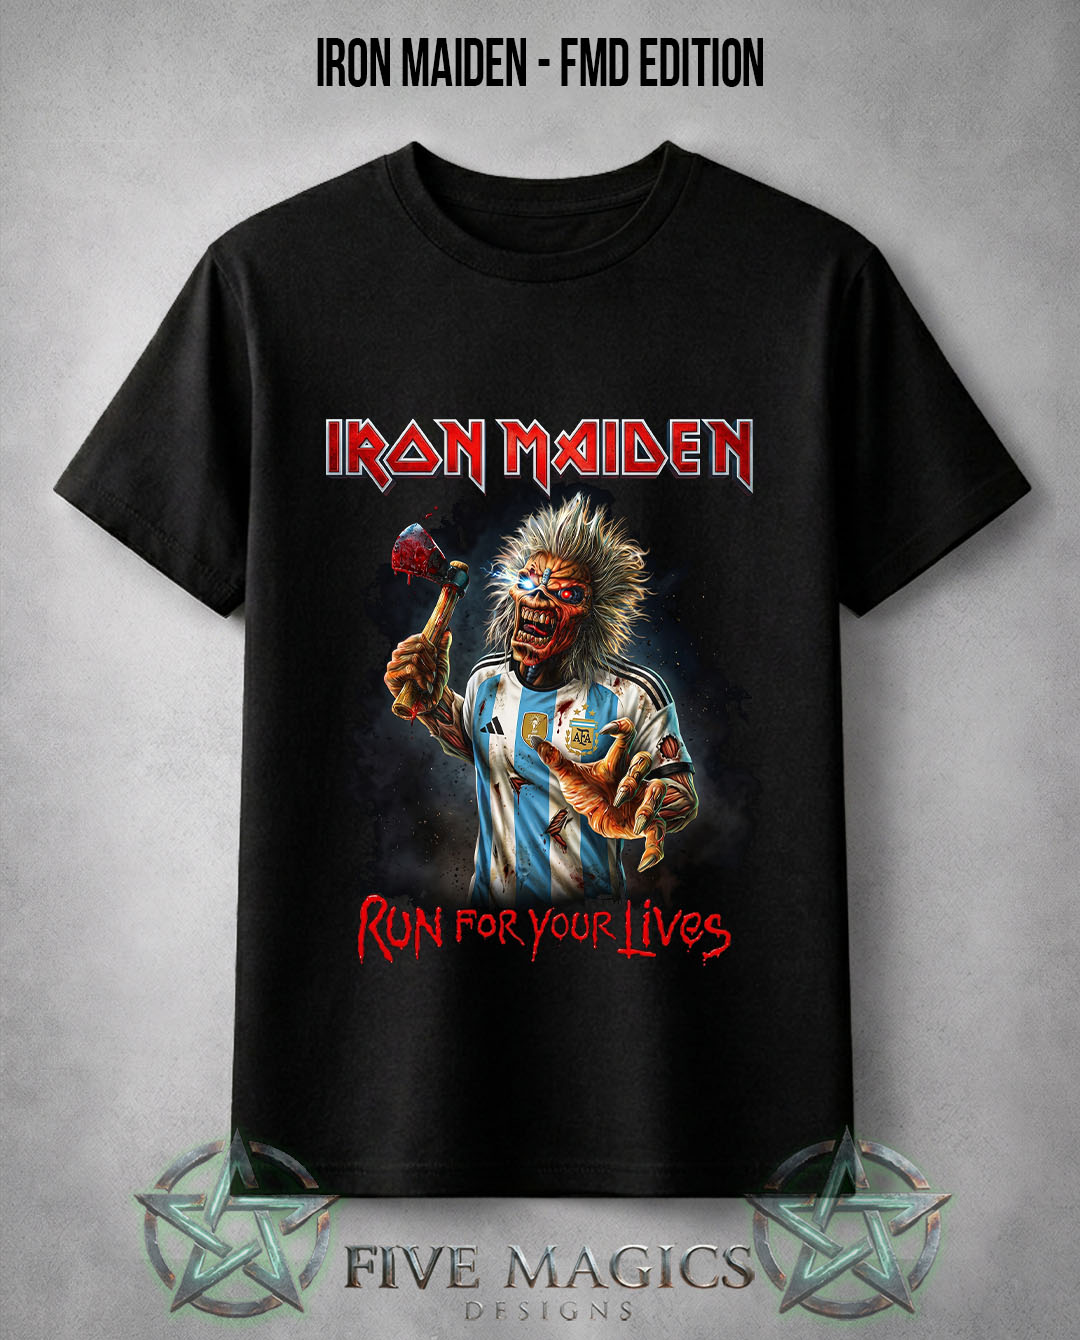
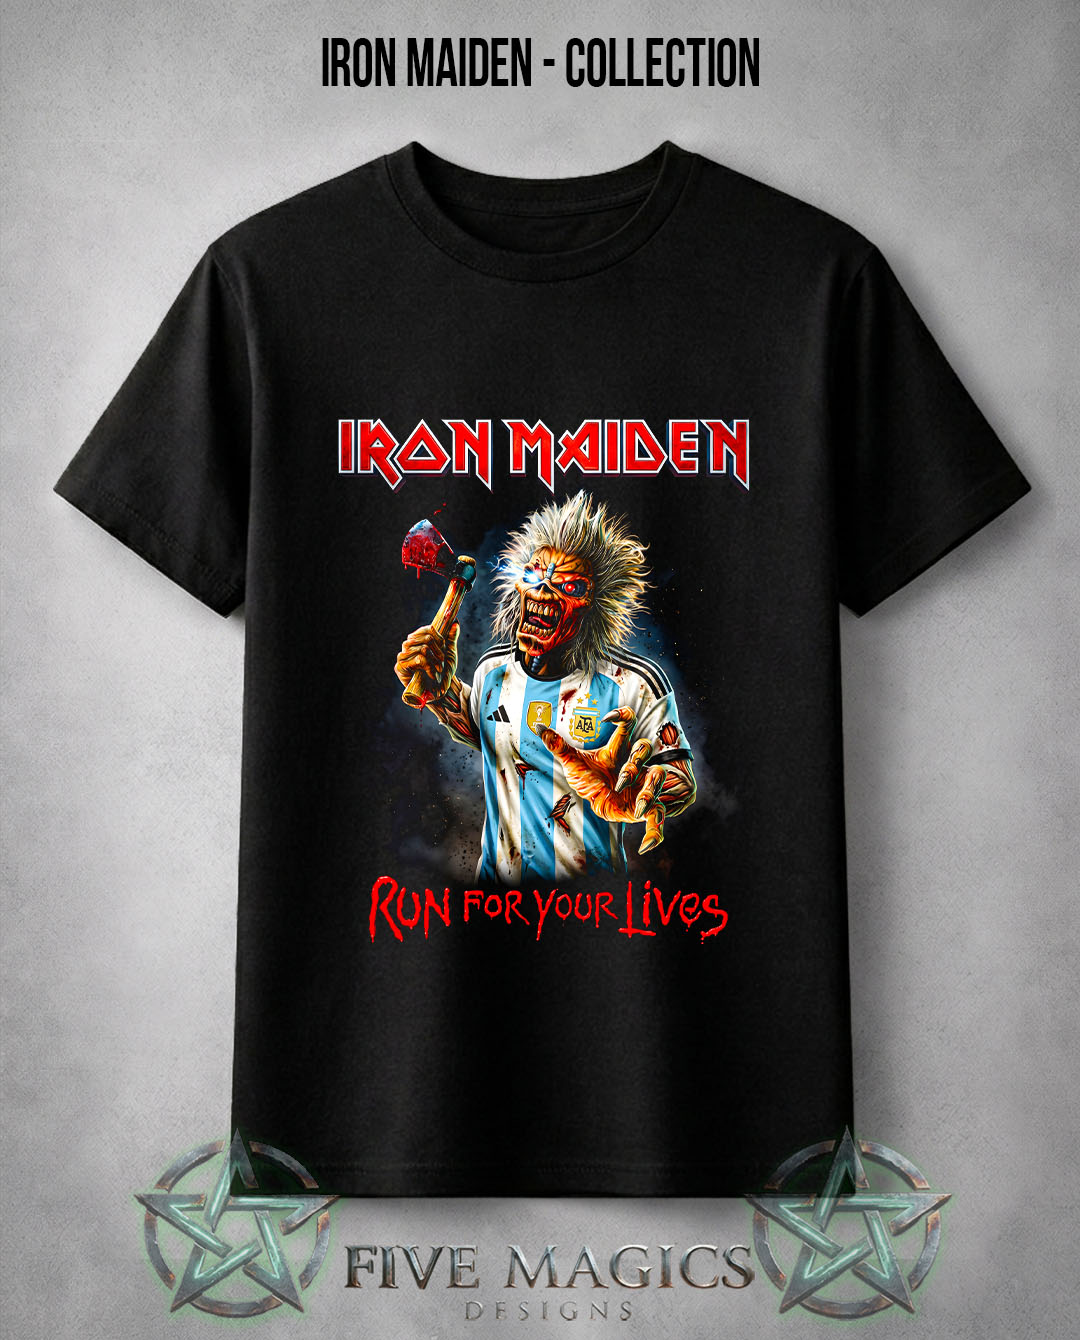
libertador

Changed region(s): [[0.3056, 0.306, 0.7028, 0.7343], [0.275, 0.0306, 0.7333, 0.0612]]

diff --git a/iron-maiden/index.html b/iron-maiden/index.html
@@ -93,37 +93,41 @@
         <section class="band-show-week-notice" aria-label="Entrega para los shows de Iron Maiden">
             <div class="band-show-week-notice-copy">
                 <p>&#128293; &Uacute;LTIMA SEMANA ANTES DE MAIDEN</p>
-                <strong>&iquest;La quer&eacute;s para los shows del 20 o 21 de octubre?</strong>
-                <span><strong>CABA / AMBA:</strong> todav&iacute;a tenemos opciones de entrega para llegar a tiempo.</span>
+                <strong>&iquest;La quer&eacute;s para el show del 20 o 21?</strong>
+                <span><strong>CABA / AMBA:</strong> seguimos tomando pedidos. Consultanos con tu localidad o CP y te indicamos la mejor opci&oacute;n de entrega seg&uacute;n la fecha a la que vayas.</span>
                 <span><strong>Interior:</strong> consultanos antes de pedir si la necesit&aacute;s para el show.</span>
-                <small>Tambi&eacute;n pod&eacute;s coordinar <strong>moto o retiro sin cargo por Villa Martelli</strong>.</small>
+                <small>Tambi&eacute;n pod&eacute;s coordinar <strong>moto o retiro coordinado</strong>.</small>
             </div>
-            <a href="https://wa.me/541169667685?text=Hola%20FMD!%20Quiero%20consultar%20la%20mejor%20opci%C3%B3n%20de%20entrega%20para%20Iron%20Maiden.%20Mi%20localidad%20o%20CP%20es%3A%20" target="_blank" rel="noopener">CONSULTANOS POR WHATSAPP</a>
+            <a href="https://wa.me/541169667685?text=Hola%20FMD!%20Quiero%20consultar%20la%20mejor%20opci%C3%B3n%20de%20entrega%20para%20Iron%20Maiden.%20Voy%20al%20show%20del%3A%20%5B20%20o%2021%5D%0AMi%20localidad%20o%20CP%20es%3A%20" target="_blank" rel="noopener">CONSULTAR ENTREGA PARA EL SHOW</a>
         </section>
 
 
-        <section class="band-campaign-feature band-campaign-feature--argentina" id="bandCampaignFeature" data-design-id="cd-iron-maiden-eddie-gaucho-argentino--p7040" data-design-ids="cd-iron-maiden-eddie-gaucho-argentino--p7040,iron-maiden-eddie-gaucho-tempestad-original-fmd,iron-maiden-eddie-tanguero-original-fmd,iron-maiden-eddie-huracan-original-fmd" aria-labelledby="bandCampaignFeatureTitle">
+        <section class="band-campaign-feature band-campaign-feature--argentina" id="bandCampaignFeature" data-design-id="cd-iron-maiden-eddie-gaucho-argentino--p7040" data-design-ids="cd-iron-maiden-eddie-gaucho-argentino--p7040,iron-maiden-eddie-gaucho-tempestad-original-fmd,iron-maiden-eddie-tanguero-original-fmd,iron-maiden-eddie-huracan-original-fmd,iron-maiden-eddie-libertador-original-fmd" aria-labelledby="bandCampaignFeatureTitle">
             <div class="band-campaign-feature-head">
                 <p>SAGA EDDIES ARGENTINOS · ORIGINALES FMD</p>
-                <h2 id="bandCampaignFeatureTitle">EDDIES ARGENTINOS · CUATRO CAPÍTULOS</h2>
-                <span>Gaucho, Tanguero, Huracán y Tempestad: cuatro versiones originales FMD inspiradas en Argentina.</span>
+                <h2 id="bandCampaignFeatureTitle">EDDIES ARGENTINOS · CINCO CAPÍTULOS</h2>
+                <span>Gaucho, Tempestad, Tanguero, Huracán y Libertador: cinco versiones originales FMD inspiradas en Argentina.</span>
             </div>
             <div class="band-campaign-feature-gallery">
-                <button type="button" class="band-campaign-feature-card is-primary" onclick="openCatalogDesignPreview('cd-iron-maiden-eddie-gaucho-argentino--p7040', 'remera', 'double', '/images/iron_maiden/remera_iron_maiden_eddie_gaucho_argentino_frente.jpg')" aria-label="Ver EDDIE GAUCHO · FRENTE + DORSO: EDDIES ARGENTINOS · CUATRO CAPÍTULOS">
+                <button type="button" class="band-campaign-feature-card is-primary" onclick="openCatalogDesignPreview('cd-iron-maiden-eddie-gaucho-argentino--p7040', 'remera', 'double', '/images/iron_maiden/remera_iron_maiden_eddie_gaucho_argentino_frente.jpg')" aria-label="Ver EDDIE GAUCHO · FRENTE + DORSO: EDDIES ARGENTINOS · CINCO CAPÍTULOS">
                     <img src="/images/iron_maiden/remera_iron_maiden_eddie_gaucho_argentino.jpg" alt="Edición completa Eddie Gaucho Argentino con frente clásico y dorso Buenos Aires 2026" width="1080" height="1350" loading="eager" decoding="async">
                     <strong>EDDIE GAUCHO · FRENTE + DORSO</strong>
                 </button>
-                <button type="button" class="band-campaign-feature-card" onclick="openCatalogDesignPreview('iron-maiden-eddie-gaucho-tempestad-original-fmd', 'remera', 'double', '/images/iron_maiden/iron_maiden_eddie_gaucho_tempestad.jpg')" aria-label="Ver EDDIE GAUCHO TEMPESTAD · FRENTE + DORSO: EDDIES ARGENTINOS · CUATRO CAPÍTULOS">
+                <button type="button" class="band-campaign-feature-card" onclick="openCatalogDesignPreview('iron-maiden-eddie-gaucho-tempestad-original-fmd', 'remera', 'double', '/images/iron_maiden/iron_maiden_eddie_gaucho_tempestad.jpg')" aria-label="Ver EDDIE GAUCHO TEMPESTAD · FRENTE + DORSO: EDDIES ARGENTINOS · CINCO CAPÍTULOS">
                     <img src="/images/iron_maiden/mock frente y dorso eddie gaucho tempestad.jpg" alt="Edición completa Eddie Gaucho Tempestad con frente y dorso" width="1080" height="1350" loading="lazy" decoding="async">
                     <strong>EDDIE GAUCHO TEMPESTAD · FRENTE + DORSO</strong>
                 </button>
-                <button type="button" class="band-campaign-feature-card" onclick="openCatalogDesignPreview('iron-maiden-eddie-tanguero-original-fmd', 'remera', 'double', '/images/iron_maiden/iron_maiden_eddie_tanguero.jpg')" aria-label="Ver EDDIE TANGUERO · FRENTE + DORSO: EDDIES ARGENTINOS · CUATRO CAPÍTULOS">
+                <button type="button" class="band-campaign-feature-card" onclick="openCatalogDesignPreview('iron-maiden-eddie-tanguero-original-fmd', 'remera', 'double', '/images/iron_maiden/iron_maiden_eddie_tanguero.jpg')" aria-label="Ver EDDIE TANGUERO · FRENTE + DORSO: EDDIES ARGENTINOS · CINCO CAPÍTULOS">
                     <img src="/images/iron_maiden/iron_maiden_eddie_tanguero_doble.jpg" alt="Edición completa Eddie Tanguero con frente y dorso Buenos Aires 2026" width="1080" height="1350" loading="lazy" decoding="async">
                     <strong>EDDIE TANGUERO · FRENTE + DORSO</strong>
                 </button>
-                <button type="button" class="band-campaign-feature-card" onclick="openCatalogDesignPreview('iron-maiden-eddie-huracan-original-fmd', 'remera', 'double', '/images/iron_maiden/remera_iron_maiden_eddie_huracan_frente.jpg')" aria-label="Ver EDDIE HURACÁN · FRENTE + DORSO: EDDIES ARGENTINOS · CUATRO CAPÍTULOS">
+                <button type="button" class="band-campaign-feature-card" onclick="openCatalogDesignPreview('iron-maiden-eddie-huracan-original-fmd', 'remera', 'double', '/images/iron_maiden/remera_iron_maiden_eddie_huracan_frente.jpg')" aria-label="Ver EDDIE HURACÁN · FRENTE + DORSO: EDDIES ARGENTINOS · CINCO CAPÍTULOS">
                     <img src="/images/iron_maiden/remera_iron_maiden_eddie_huracan_doble.jpg" alt="Edición completa Eddie vs. Huracán con frente y dorso Buenos Aires 2026" width="1080" height="1350" loading="lazy" decoding="async">
                     <strong>EDDIE HURACÁN · FRENTE + DORSO</strong>
+                </button>
+                <button type="button" class="band-campaign-feature-card" onclick="openCatalogDesignPreview('iron-maiden-eddie-libertador-original-fmd', 'remera', 'double', '/images/iron_maiden/iron_maiden_eddie_soldado.jpg')" aria-label="Ver EDDIE LIBERTADOR · FRENTE + DORSO: EDDIES ARGENTINOS · CINCO CAPÍTULOS">
+                    <img src="/images/iron_maiden/iron_maiden_eddie_soldado_doble.jpg" alt="Edición completa Eddie Libertador con sombrero y bandera argentina" width="1080" height="1350" loading="lazy" decoding="async">
+                    <strong>EDDIE LIBERTADOR · FRENTE + DORSO</strong>
                 </button>
             </div>
             <p class="band-campaign-feature-event">20 + 21 OCTUBRE · ESTADIO HURACÁN</p>
@@ -131,7 +135,7 @@
                 <span class="is-recommended"><b>FRENTE + DORSO</b>$45.000</span>
             </div>
 
-            <p class="band-campaign-feature-note">Elegí tu Eddie. Los cuatro están disponibles con estampa frontal o frente + dorso.</p>
+            <p class="band-campaign-feature-note">Elegí tu Eddie. Los cinco están disponibles con estampa frontal o frente + dorso.</p>
             <button type="button" class="band-campaign-feature-cta" onclick="selectBandLandingCollectionAndScroll('eddies-argentinos')">VER EDDIES ARGENTINOS</button>
         </section>
         <nav class="band-discovery-nav" aria-label="Elegir una colección de Iron Maiden">

diff --git a/js/band-archives-config.js b/js/band-archives-config.js
@@ -324,12 +324,12 @@
             },
             showWeekNotice: {
                 eyebrow: '&#128293; &Uacute;LTIMA SEMANA ANTES DE MAIDEN',
-                question: '&iquest;La quer&eacute;s para los shows del 20 o 21 de octubre?',
-                caba: '<strong>CABA / AMBA:</strong> todav&iacute;a tenemos opciones de entrega para llegar a tiempo.',
+                question: '&iquest;La quer&eacute;s para el show del 20 o 21?',
+                caba: '<strong>CABA / AMBA:</strong> seguimos tomando pedidos. Consultanos con tu localidad o CP y te indicamos la mejor opci&oacute;n de entrega seg&uacute;n la fecha a la que vayas.',
                 interior: '<strong>Interior:</strong> consultanos antes de pedir si la necesit&aacute;s para el show.',
-                extra: 'Tambi&eacute;n pod&eacute;s coordinar <strong>moto o retiro sin cargo por Villa Martelli</strong>.',
-                ctaLabel: 'CONSULTANOS POR WHATSAPP',
-                href: 'https://wa.me/541169667685?text=Hola%20FMD!%20Quiero%20consultar%20la%20mejor%20opci%C3%B3n%20de%20entrega%20para%20Iron%20Maiden.%20Mi%20localidad%20o%20CP%20es%3A%20'
+                extra: 'Tambi&eacute;n pod&eacute;s coordinar <strong>moto o retiro coordinado</strong>.',
+                ctaLabel: 'CONSULTAR ENTREGA PARA EL SHOW',
+                href: 'https://wa.me/541169667685?text=Hola%20FMD!%20Quiero%20consultar%20la%20mejor%20opci%C3%B3n%20de%20entrega%20para%20Iron%20Maiden.%20Voy%20al%20show%20del%3A%20%5B20%20o%2021%5D%0AMi%20localidad%20o%20CP%20es%3A%20'
             },
             modalShowNotice: '&iquest;La necesit&aacute;s para el show?<br>Consultanos tu localidad o CP antes de comprar y te indicamos la mejor opci&oacute;n de entrega.',
             showSizeGuide: true,
@@ -449,10 +449,10 @@
             campaignFeature: {
                 theme: 'argentina',
                 kicker: 'SAGA EDDIES ARGENTINOS · ORIGINALES FMD',
-                title: 'EDDIES ARGENTINOS · CUATRO CAPÍTULOS',
-                copy: 'Gaucho, Tanguero, Huracán y Tempestad: cuatro versiones originales FMD inspiradas en Argentina.',
+                title: 'EDDIES ARGENTINOS · CINCO CAPÍTULOS',
+                copy: 'Gaucho, Tempestad, Tanguero, Huracán y Libertador: cinco versiones originales FMD inspiradas en Argentina.',
                 eventLine: '20 + 21 OCTUBRE · ESTADIO HURACÁN',
-                note: 'Elegí tu Eddie. Los cuatro están disponibles con estampa frontal o frente + dorso.',
+                note: 'Elegí tu Eddie. Los cinco están disponibles con estampa frontal o frente + dorso.',
                 priceOptions: [
                     { label: 'FRENTE + DORSO', price: '$45.000', recommended: true }
                 ],
@@ -499,6 +499,16 @@
                         label: 'EDDIE HURACÁN · FRENTE + DORSO',
                         printMode: 'double',
                         preview: '/images/iron_maiden/remera_iron_maiden_eddie_huracan_frente.jpg',
+                        width: 1080,
+                        height: 1350
+                    },
+                    {
+                        designId: 'iron-maiden-eddie-libertador-original-fmd',
+                        src: '/images/iron_maiden/iron_maiden_eddie_soldado_doble.jpg',
+                        alt: 'Edición completa Eddie Libertador con sombrero y bandera argentina',
+                        label: 'EDDIE LIBERTADOR · FRENTE + DORSO',
+                        printMode: 'double',
+                        preview: '/images/iron_maiden/iron_maiden_eddie_soldado.jpg',
                         width: 1080,
                         height: 1350
                     },
